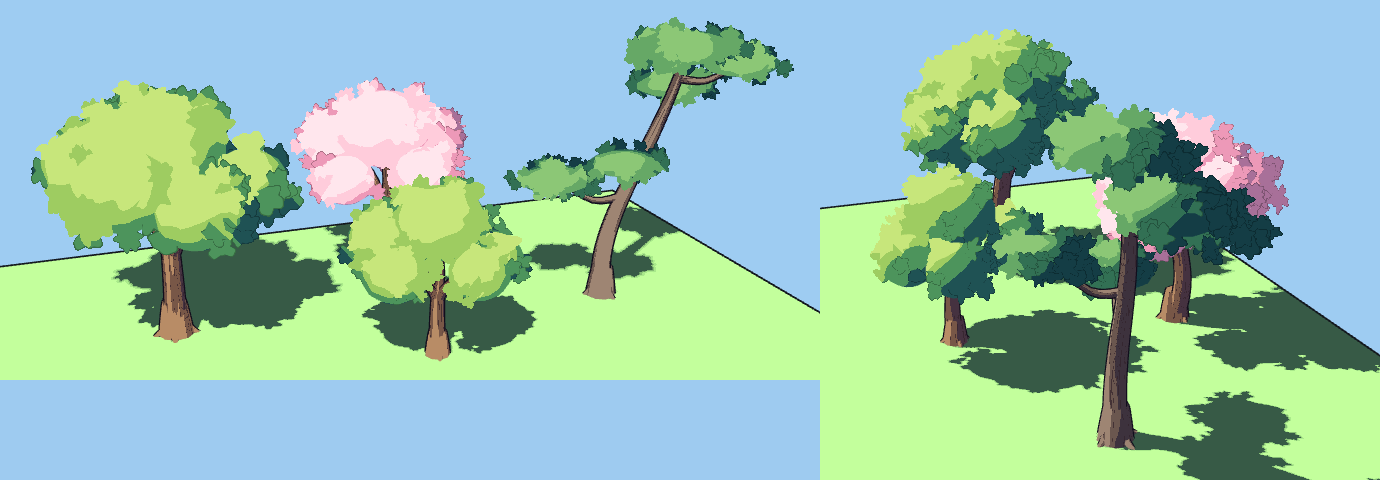
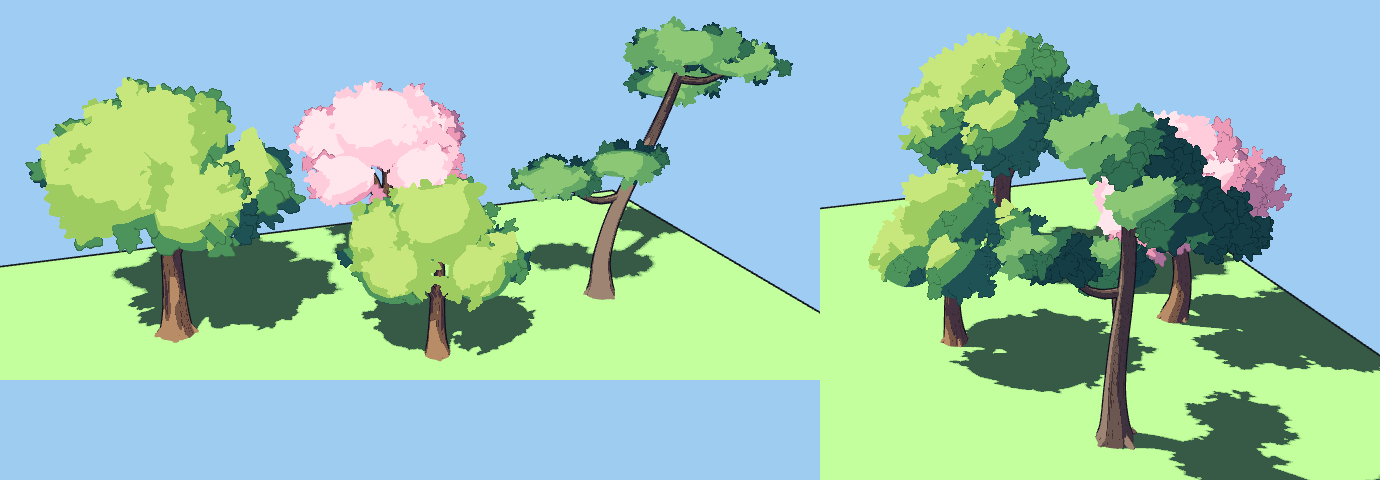
Foliage: seamless flared foot, crown shade higher up the trunk
The foot was a separate stub whose top edge read like a sock, and the
crown's shade started low. The trunk is now one tube from just under the
ground that flares smoothly, with low buttress ridges; the crown shade
starts about halfway up with a dappled edge. No ink below the ground (a
tiny weight, since weight-0 outline vertices collapse to the origin and
drew black spikes), and the tube frame restarts on sharp turns. The demo
takes a camera distance and target for close-ups.

Claude-Session: https://claude.ai/code/session_01JuNQs8VxyuqxoqKQNTs1C5

diff --git a/.claude/skills/godot-diorama-scene/references/foliage.md b/.claude/skills/godot-diorama-scene/references/foliage.md
@@ -45,13 +45,19 @@ balls (the first beach pines) reads as a toy, not as anime.
      cracks run through the mid and shadow tones, and the trunk is pushed darker as it rises into the
      crown's shade (CUSTOM1.x).
    - The ink line is the kit's outline shader as next pass (CUSTOM0 = ring normal and weight).
-   - The foot is a short fat stub that widens smoothly into the ground, with 3 or 4 short buttress roots
-     that sink in.
+   - The foot is part of the same tube, which starts just under the ground and flares smoothly
+     (`flare`, decaying over about 2.4 x the trunk radius, with extra path points low down). 3 or 4 low
+     buttress ridges start up on the flare and sink into the ground.
+   - The crown's shade starts about halfway up the trunk with a dappled edge (light through leaves), so
+     the lower trunk is lit like the ground around it. Do not ink where a tube is under the ground. The
+     outline shader collapses weight-0 vertices to the origin, so use a tiny weight instead of 0, or you
+     get huge black spikes. Restart the tube frame if the path turns onto the side vector.
    - Limbs start inside the trunk below the fork, rise, then reach out to their clump, each with a twig.
      Pine limbs dip, then lift toward the pad.
    - The user rejected two earlier trunks: stacked kit cylinders with joint balls (seams, a black stick
      in the crown's shade, a light foot that looked like a separate object), and long stick roots
-     splayed like spider legs.
+     splayed like spider legs. They also rejected a separate stub for the foot, whose top edge read as
+     a sock, and crown shade starting too low.
 7. **Wind.** Sway slowly in the vertex shader, more toward the top and the outside of the crown.
 
 ## Notes
